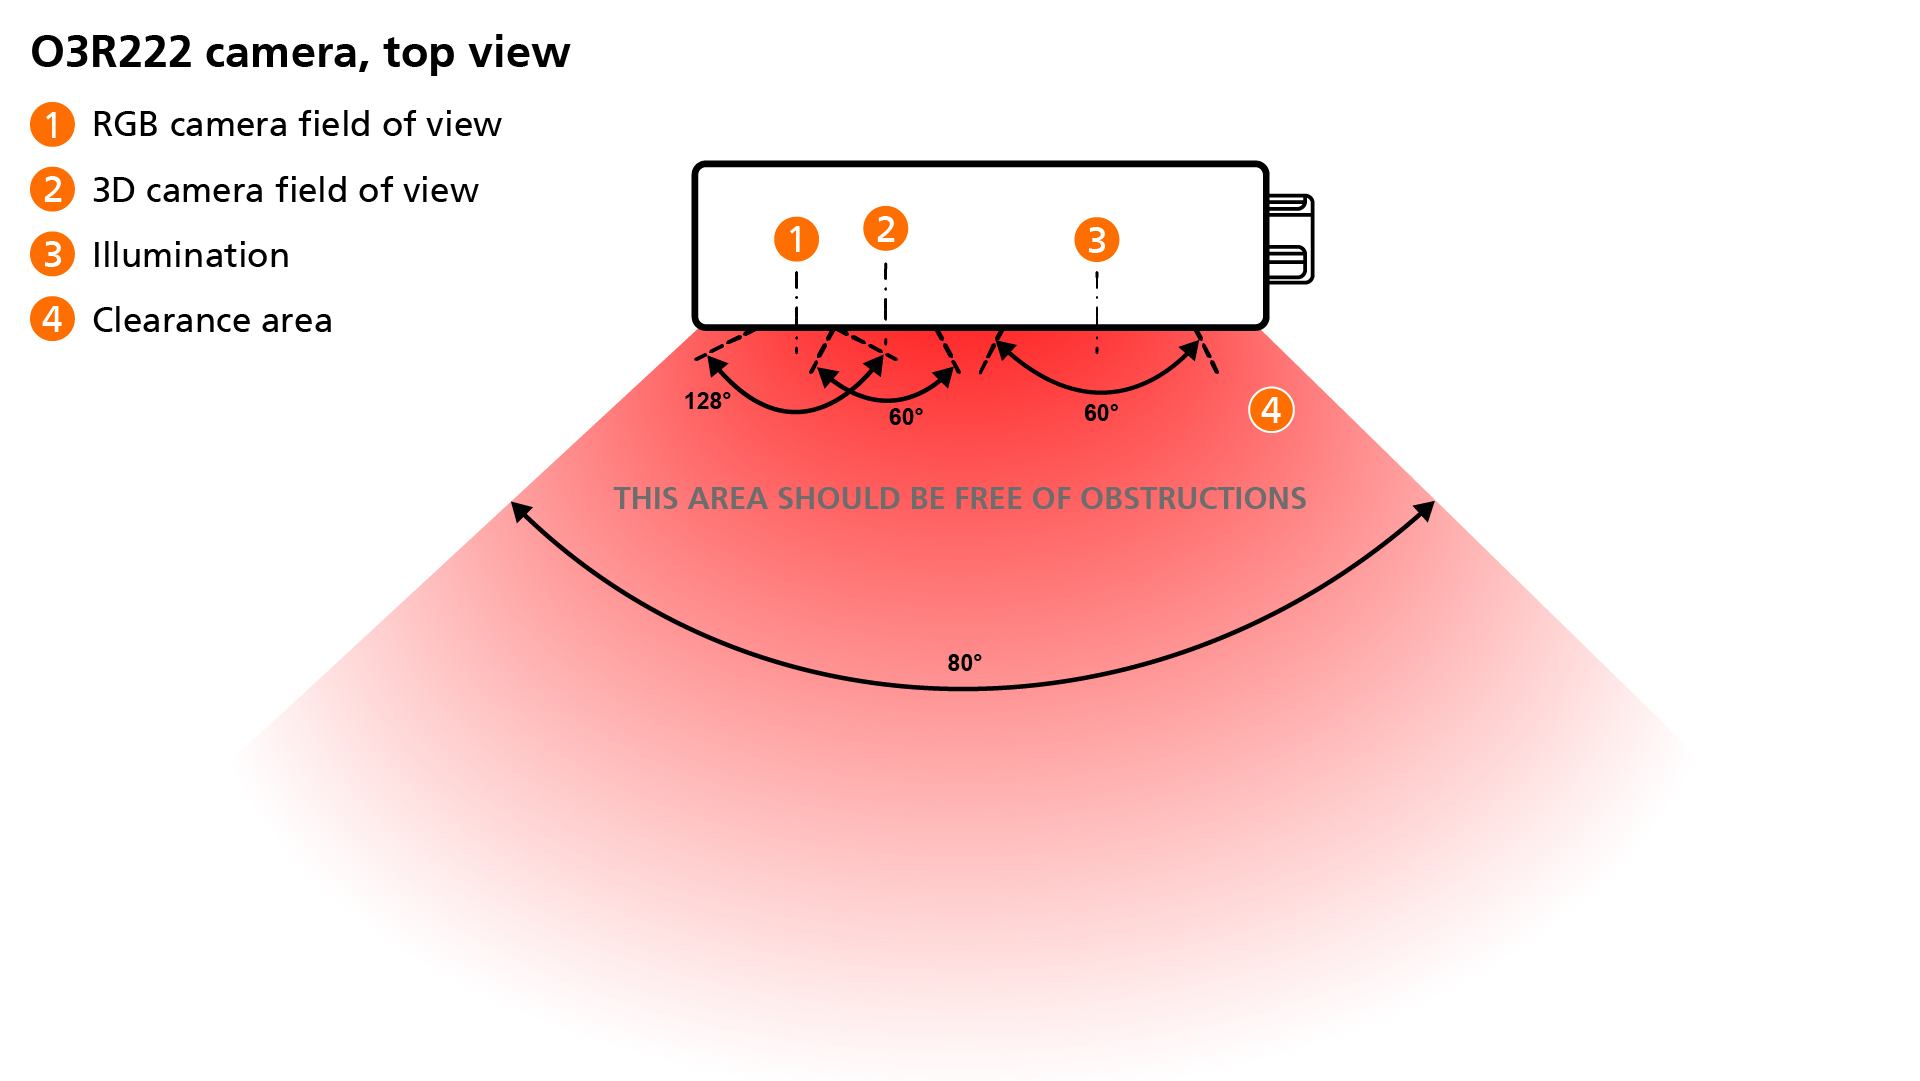
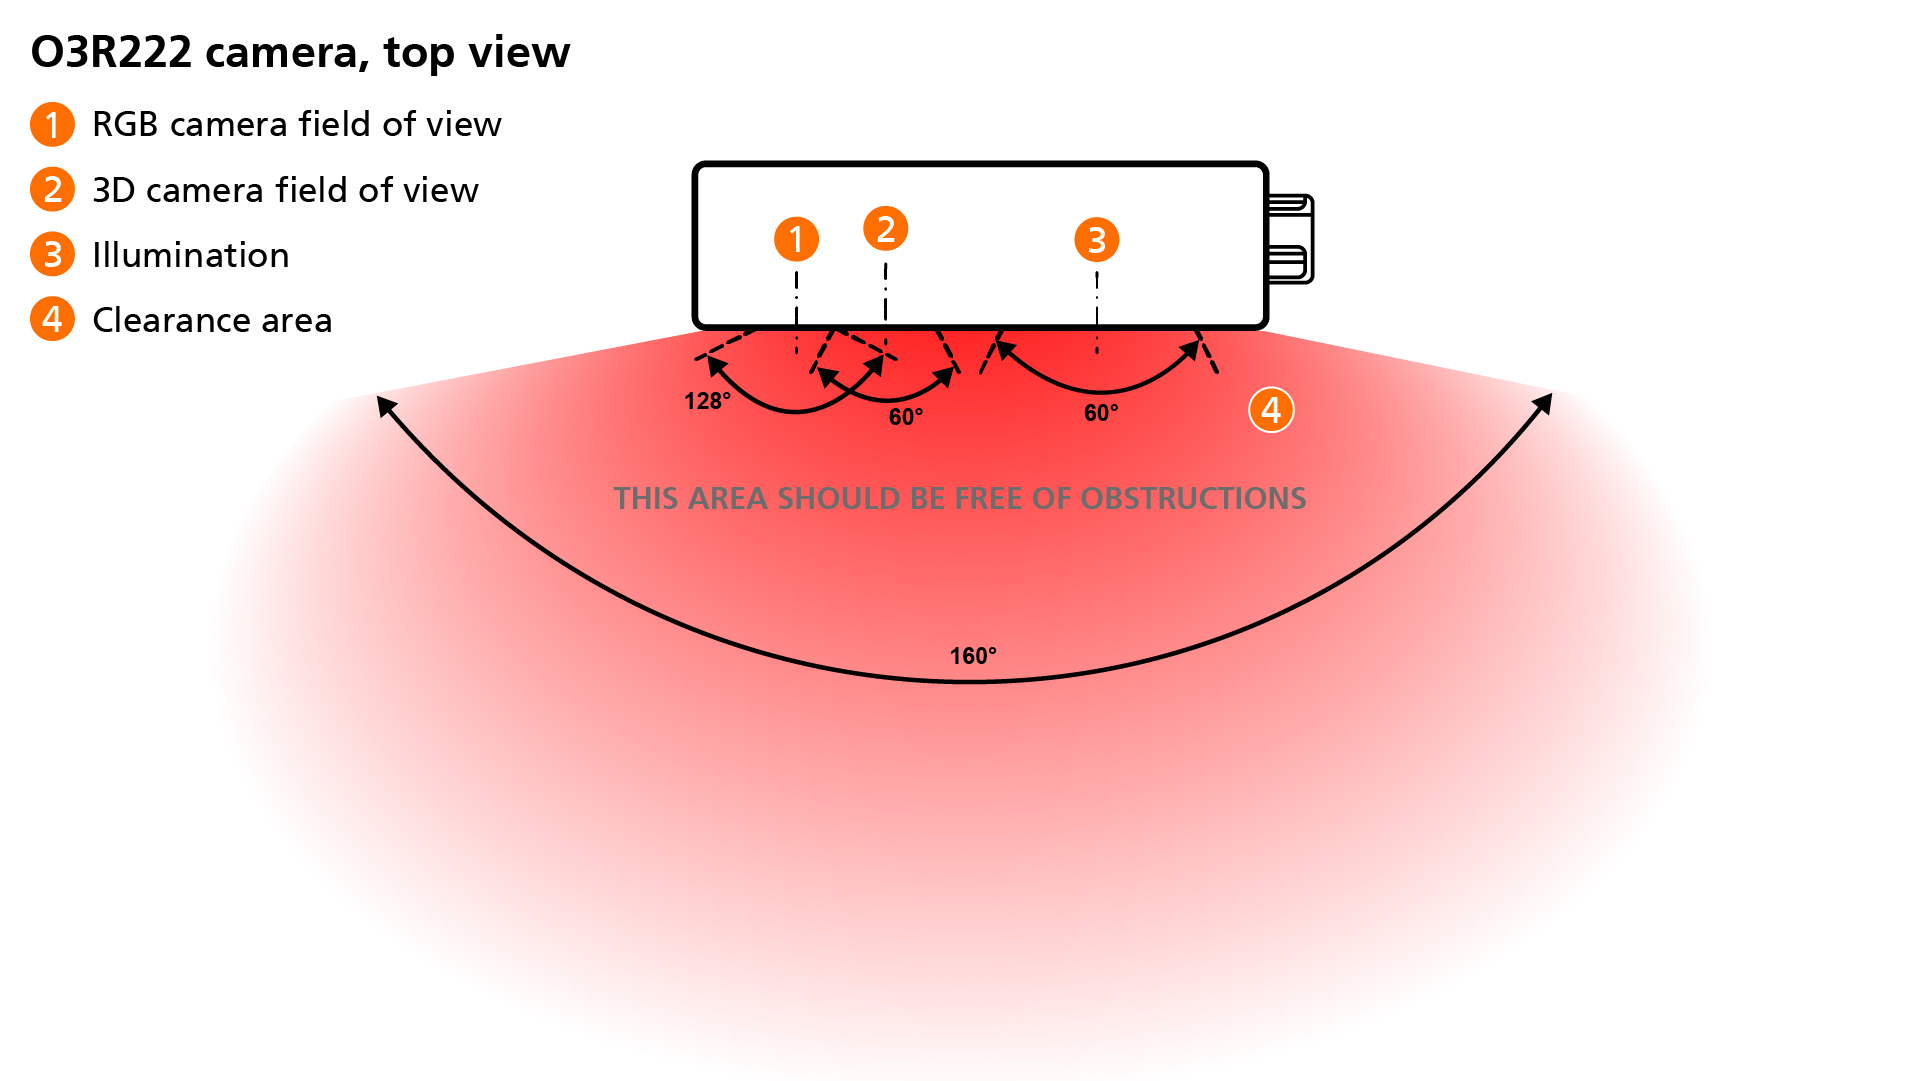
Add beam profiles and update the clearance area

diff --git a/Technology/Hardware/Mounting/clearance_area.md b/Technology/Hardware/Mounting/clearance_area.md
@@ -12,7 +12,8 @@ For the O3R225, the clearance area is defined as shown in the diagram below:
 
 ![Side view of the clearance area for an O3R225 camera](img/225_clearance_area_vertical.jpg)
 
-The clearance area is 150 degrees along the horizontal angle and 140 degrees along the vertical angle. 
+The clearance area is 160 degrees along both the horizontal and the vertical axis.
+For more information about how the clearance area is defined, reach out to the support team at support.efector.object-ident@ifm.com. 
 
 The clearance area shall be kept free of any permanent obstructions, like the vehicle's chassis or other overhanging parts. It is especially important to respect these requirements for the first 50 cm in front of the camera.
 
@@ -27,13 +28,14 @@ The defined clearance area takes this into account.
 
 ## O3R222
 
-For the O3R222, the clearance area is the same as the one for the O3R225: 
+For the O3R222, the clearance area is the same as the one for the O3R225, even though the field of view is narrower: 
 
-![Top view of the clearance area for an O3R225 camera](img/225_clearance_area_horizontal.jpg)
+![Top view of the clearance area for an O3R222 camera](img/222_clearance_area_horizontal.jpg)
 
-![Side view of the clearance area for an O3R225 camera](img/225_clearance_area_vertical.jpg)
+![Side view of the clearance area for an O3R222 camera](img/222_clearance_area_vertical.jpg)
 
-The clearance area is 150 degrees along the horizontal angle and 140 degrees along the vertical angle. 
+The clearance area is 160 degrees along both the horizontal and the vertical axis.
+For more information about how the clearance area is defined, reach out to the support team at support.efector.object-ident@ifm.com.
 
 The clearance area shall be kept free of any permanent obstructions, like the vehicle's chassis or other overhanging parts. It is especially important to respect these requirements for the first 50 cm in front of the camera.
 

diff --git a/Technology/Hardware/Mounting/appendix_clearance_area.md b/Technology/Hardware/Mounting/appendix_clearance_area.md
@@ -1,0 +1,15 @@
+---
+nosearch: true
+---
+# Appendix to the clearance area documentation: illumination profiles
+
+The clearance area for both camera is defined by the beam profiles of the illumination modules on the horizontal and vertical axis, meaning in how wide of an area light is emitted by the VCSELs.
+
+For the O3R225, the beam profile is displayed below:
+![Beam profile for the O3R225](img/O3R225-profile.png)
+
+For the O3R222, the beam profile is displayed below:
+![Beam profile for the O3R222](img/O3R222-profile.png)
+
+For each axis, we consider the angle at which only 2% or less of the maximum light intensity remains.
+This means that at around +/- 80 degrees, the amount of light remaining is sufficiently low not to cause unwanted interference when reflected over close-by surfaces.
